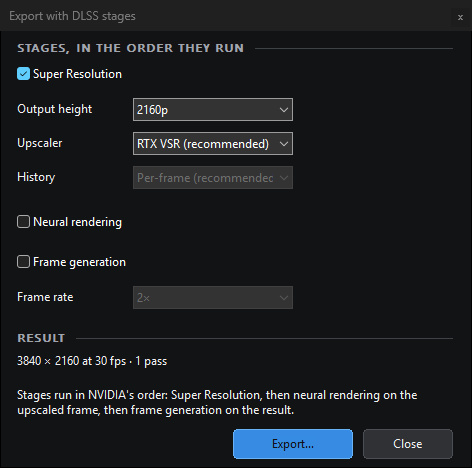
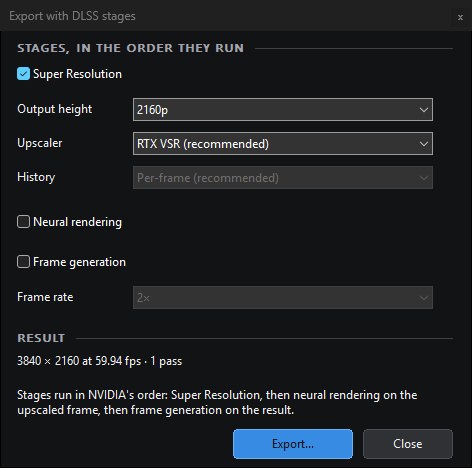
docs(media): the RTX VSR shot at 1.51x from a 540p copy; the export window retaken
vsr-wipe.jpg and vsr-wipe-crop.png now come from a 960x540 copy of the
007 source, shown at 1.51x with both tags, the input size of the RTX VSR
quality report; the 720p copy only reached 1.13x in a window on a 1080p
display. export-stages-vsr.jpg is retaken with 5f043ba, whose dropdowns
fit their choices. Captions, alt text, provenance and the site's
variants follow.

Changed region(s): [[0.5636, 0.2094, 0.9195, 0.4188], [0.5932, 0.5983, 0.9195, 0.6581], [0.2076, 0.7479, 0.3856, 0.8077]]

diff --git a/site/src/index.html b/site/src/index.html
@@ -507,9 +507,9 @@
         <source type="image/avif" srcset="assets/screens/vsr-wipe-crop-960.avif 960w, assets/screens/vsr-wipe-crop-1440.avif 1440w" sizes="(max-width: 60rem) 100vw, 50rem">
         <source type="image/webp" srcset="assets/screens/vsr-wipe-crop-960.webp 960w, assets/screens/vsr-wipe-crop-1440.webp 1440w" sizes="(max-width: 60rem) 100vw, 50rem">
         <img src="media/vsr-wipe-crop.png" width="1449" height="735" loading="lazy" decoding="async"
-             alt="A 720p copy of 007 First Light in Wipe, compared against RTX VSR: the player's plain scale left of a divider down the face, RTX VSR at High right of it.">
+             alt="A 540p copy of 007 First Light in Wipe, compared against RTX VSR: the player's plain scale left of a divider down the face, RTX VSR at High right of it.">
       </picture>
-      <figcaption>A 720p frame shown at 1.13×, plain scale left, RTX VSR right<span class="beat__tick">007 First Light, frame 1122 · <a href="media/vsr-wipe-crop.png">1:1 file</a> · <a href="media/vsr-wipe.jpg">whole window</a></span></figcaption>
+      <figcaption>A 540p frame shown at 1.51×, plain scale left, RTX VSR right<span class="beat__tick">007 First Light, frame 1122 · <a href="media/vsr-wipe-crop.png">1:1 file</a> · <a href="media/vsr-wipe.jpg">whole window</a></span></figcaption>
     </figure>
   </article>
 

diff --git a/docs/screenshots/README.md b/docs/screenshots/README.md
@@ -8,9 +8,9 @@ for images that have since been replaced are in the git history of this file.
 
 | File | What it shows | Made |
 | --- | --- | --- |
-| `current/vsr-wipe.jpg` | A 1280x720 copy of 007 First Light paused on frame 1122 in Wipe, compared against RTX VSR: the player's plain (bilinear) scale of the original left of the divider, RTX VSR at High right of it, the picture at 1.13x the video | 2 Oct 2026, `9d0f790` |
+| `current/vsr-wipe.jpg` | A 960x540 copy of 007 First Light paused on frame 1122 in Wipe, compared against RTX VSR: the player's plain (bilinear) scale of the original left of the divider, RTX VSR at High right of it, the picture at 1.51x the video | 2 Oct 2026, `9d0f790` |
 | `current/vsr-wipe-crop.png` | The picture area of `vsr-wipe.jpg`, 1:1, with both tags | 2 Oct 2026, `9d0f790` |
-| `current/export-stages-vsr.jpg` | **Export with DLSS stages** with Super Resolution alone, 2160p, Upscaler **RTX VSR (recommended)**, and its summary line | 2 Oct 2026, `9d0f790` |
+| `current/export-stages-vsr.jpg` | **Export with DLSS stages** with Super Resolution alone, 2160p, Upscaler **RTX VSR (recommended)**, and its summary line | 2 Oct 2026, `5f043ba` |
 | `current/player-start.jpg` | The start screen after two renders and a restart: the capability check with its RTX VSR line, two Recent tiles at Rendered 100%, and the Game trailers row | 2 Oct 2026, `9d0f790` |
 | `current/compare-wipe.jpg` | 007 First Light paused on frame 1122 in Wipe, the divider down the face, with the compare bar | 2 Oct 2026, `9d0f790` |
 | `current/compare-difference.jpg` | The same frame in Difference (x4, brightness only): where the model changed the picture | 2 Oct 2026, `9d0f790` |
@@ -126,46 +126,45 @@ The settings digest is the one the 24 September footer gave for the defaults.
 
 `vsr-wipe.jpg` and `vsr-wipe-crop.png`. RTX VSR only works where the picture is
 shown larger than the video, which a 2560x1440 trailer never is on a 1080p
-display, so the source is a 1280x720 copy of the cached 007 source, made with
-the bundled ffmpeg:
+display, so the source is a 960x540 copy of the cached 007 source, the input
+size of the [RTX VSR quality report](../measurements/vsr-quality-20261002/REPORT.md)'s
+540p-to-1080p measurement, made with the bundled ffmpeg:
 
 ```
 ffmpeg -i source.mkv -map 0:v:0 -map 0:a:0
-  -vf scale=1280:720:flags=lanczos+accurate_rnd+full_chroma_int -fps_mode passthrough
+  -vf scale=960:540:flags=lanczos+accurate_rnd+full_chroma_int -fps_mode passthrough
   -c:v libx264 -preset slow -crf 12 -pix_fmt yuv420p
   -colorspace bt709 -color_primaries bt709 -color_trc bt709 -color_range tv -c:a copy
-  "007 First Light 720p.mkv"
+  "007 First Light 540p.mkv"
 ```
 
 5,784 frames, SHA-256
[2 lines of base64/hex data omitted]
 opened as a local file (on the player's command line, after the start screen
 had been captured, so no local name reached a Recent tile) in the 1902x1023
 window and rendered whole, because the compare views need a render (render key
-`118cb8468703a30b…`, 5,784 / 5,784 verified). Then, paused on frame 1122:
+`fad0ab4556db0e4d…`, 5,784 / 5,784 verified). Then, paused on frame 1122:
 **Wipe** and **Video > Compare > Compare against RTX VSR** (`Shift+R`'s
 command), the divider still at 60.8%.
 
-The picture is 1449x815: **1.13x** the video, the largest Fit makes on this
-display, because the menu, compare bar, controls and status line take 156 of
-the client's 971 rows. **Fill** reaches 1.48x but pushes the tags out of view,
-so it was not used. RTX VSR runs at High, its default (`1280x720 -> 1449x815`
-in the log). Left of the divider is the compositor's bilinear scale of the
-original. A check on the capture: the left side differs from a bilinear scale
-of the copy's frame 1122 by 1.04 levels (1.52 and 1.50 for frames 1121 and
-1123), the right side by 1.42; the right side's mean Laplacian, a measure of
-fine detail, is 2.72 against the left's 2.09 beside the divider. The status
-line reads `DLSS Upscaling off`, which is right: playback VSR stands aside
-while a compare view draws both members.
+The picture is 1449x815: **1.51x** the video. RTX VSR runs at High, its
+default (`960x540 -> 1449x815` in the log). Left of the divider is the
+compositor's bilinear scale of the original. A check on the capture: the left
+side differs from a bilinear scale of the copy's frame 1122 by 1.04 levels
+(1.51 and 1.49 for frames 1121 and 1123), the right side by 1.48; the right
+side's mean Laplacian, a measure of fine detail, is 2.57 against the left's
+1.82 beside the divider. The status line reads `DLSS Upscaling off`, which is
+right: playback VSR stands aside while a compare view draws both members.
 
 `vsr-wipe-crop.png` is the render window's area of that capture, x 226-1675 and
 y 55-790 of the visible frame: 1449x735, unscaled and lossless, both tags in
 it. It is one frame of a game trailer on one display; the measured comparison
-is the [RTX VSR quality report](../measurements/vsr-quality-20261002/REPORT.md),
-not this picture.
+is the report, not this picture.
 
-A 960x540 copy made the same way showed at 1.51x in the same window and was
-captured too; it is not used here.
+A 1280x720 copy made the same way only reaches 1.13x in this window, because
+the menu, compare bar, controls and status line take 156 of the client's 971
+rows; **Fill** takes it to 1.48x but pushes the tags out of view. Both were
+captured and are not used.
 
 ### GTA VI on and off, frame 1940
 
@@ -178,15 +177,19 @@ pair, which was taken with Intensity, Local tone and Local structure at 2.0.
 
 ### Export with DLSS stages
 
-`export-stages-vsr.jpg`, with GTA VI loaded: **DLSS > Convert & export > Export
-with DLSS stages** opened its window, which is a tool window of its own, and
-was captured by its own handle: 472x468 at 100%. **Super Resolution** was
+`export-stages-vsr.jpg` was retaken with the rebuilt player at `5f043ba`, whose
+export dropdowns are 300 wide instead of 160 (at `9d0f790` the greyed History
+box was cut to "Per-frame (recommendec"). That build was copied, with its
+neural runtime and tools, into a new folder with no settings file, cache or
+logs, at a path short enough for its own cache beside the exe, which it used.
+The 960x540 copy was opened on its command line, then **DLSS > Convert &
+export > Export with DLSS stages** opened its window, which is a tool window of
+its own, captured by its own handle: 472x468 at 100%. **Super Resolution** was
 ticked, **Output height** set to 2160p and **Upscaler** to **RTX VSR
 (recommended)**; Neural rendering and Frame generation stayed unticked, as they
-open. The summary reads `3840 × 2160 at 30 fps · 1 pass`. Nothing was
-exported, so no save dialog or output path exists. **History** is greyed, since
-it applies to DLSS Super Resolution only, and at this size its text is cut to
-"Per-frame (recommendec".
+open. The summary reads `3840 × 2160 at 59.94 fps · 1 pass`. Nothing was
+exported, so no save dialog or output path exists. **History** is greyed,
+since it applies to DLSS Super Resolution only.
 
 ### The start screen
 

diff --git a/README.md b/README.md
@@ -286,9 +286,9 @@ The player paused on one frame of *007 First Light* rendered at default
 settings: the first four on an RTX 5090 at 100% display scaling, the next three
 on an RTX 4080 SUPER at 150%. Click any image for full size.
 
-![A 1280x720 copy of 007 First Light in Wipe, compared against RTX VSR: the player's plain scale of the original left of a divider down the face, RTX VSR at High right of it, both tags at the top; an unscaled crop of the player's picture](docs/screenshots/current/vsr-wipe-crop.png)
+![A 960x540 copy of 007 First Light in Wipe, compared against RTX VSR: the player's plain scale of the original left of a divider down the face, RTX VSR at High right of it, both tags at the top; an unscaled crop of the player's picture](docs/screenshots/current/vsr-wipe-crop.png)
 
-One 720p frame shown at 1.13x: the player's plain scaling left of the divider,
+One 540p frame shown at 1.51x: the player's plain scaling left of the divider,
 RTX VSR right, unscaled crop ([whole window](docs/screenshots/current/vsr-wipe.jpg)).
 The measured comparison is the
 [RTX VSR quality report](docs/measurements/vsr-quality-20261002/REPORT.md), not
